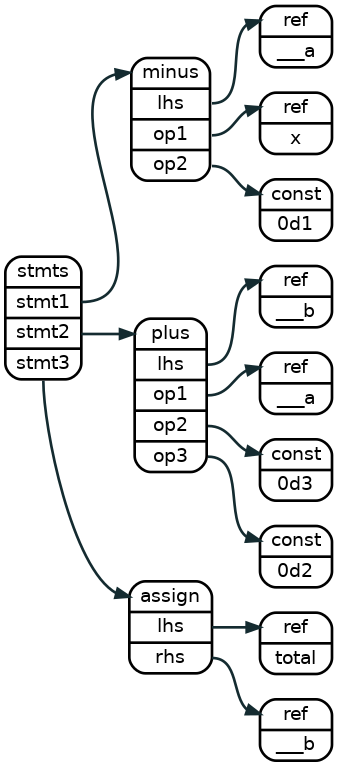
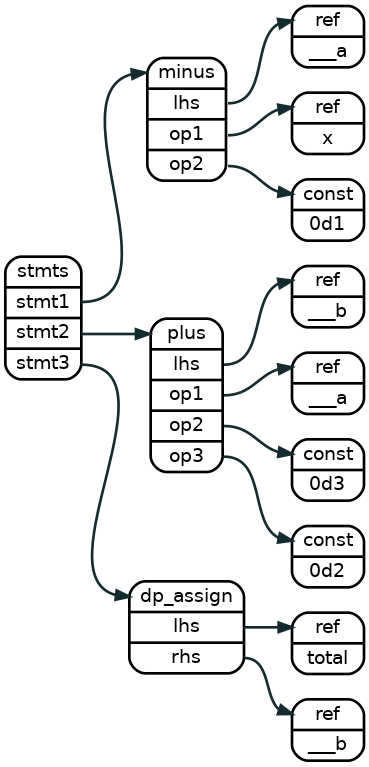
expand the assign section to cover 3 assign types

diff --git a/index.html b/index.html
@@ -366,12 +366,24 @@ foo = $a
 <span class="hljs-keyword">auto</span> node_reg = Lnast_node::create_ref(<span class="hljs-string">"#reg_foo"</span>, line_num, pos1, pos2);
 </code></pre>
 <h1 id="assign-statement">Assign Statement</h1>
+<p>LNAST has 3 types of assignments. &quot;=&quot;, &quot;as&quot;, and &quot;:=&quot;.</p>
+<ul>
+<li>The &quot;lhs = rhs&quot; assignment (assign), copies the rhs value to the lhs and makes sure
+that there is no bit drop. The lhs has to have equal or more bits than the
+rhs.</li>
+<li>The &quot;lhs as rhs&quot; assignment (as) is the same as the &quot;=&quot; assignment but it fixes
+the value. The lhs variable becomes a &quot;C++ const&quot; after the assignment. The
+value assigned can not change again.</li>
+<li>the &quot;lhs := rhs&quot; assignment (dp_assign) is like the &quot;=&quot; assignment but there is no check
+for overflow. If the rhs has more bits than the lhs, the upper bits will be
+dropped.</li>
+</ul>
 <h2 id="assign-trivial-constant">Assign Trivial Constant</h2>
 <pre class="highlight"><code>// Pyrope
 val = 1023u10bits
 </code></pre>
 <pre class="highlight tab tab-verilog"><code><span class="hljs-comment">// Verilog</span>
-<span class="hljs-keyword">assign</span> val = <span class="hljs-number">10</span><span class="hljs-meta">`d1023</span>
+<span class="hljs-keyword">assign</span> val = <span class="hljs-number">10</span><span class="hljs-meta">`d1023 // val has 10 bits</span>
 </code></pre>
 <pre class="highlight tab tab-shell"><code>// CFG
 1       0       0       SEQ0
@@ -393,7 +405,7 @@ An assign node sets the right hand side value to the reference pointed by the le
 of the expression. The left hand side is always a reference. The right hand side is a reference or a constant.</p>
 <h2 id="assign-simple-expression">Assign Simple Expression</h2>
 <pre class="highlight"><code>// Pyrope
-total = (x - 1) + 3 + 2
+total := (x - 1) + 3 + 2
 </code></pre>
 <pre class="highlight tab tab-verilog"><code><span class="hljs-comment">// Verilog</span>
 <span class="hljs-keyword">assign</span> total = (x - <span class="hljs-number">1</span>) + <span class="hljs-number">3</span> + <span class="hljs-number">2</span>
@@ -411,21 +423,21 @@ total = (x - 1) + 3 + 2
 <span class="hljs-comment">// Note: as mentioned in the introduction, if you have the HDL-AST in hand, using</span>
 <span class="hljs-comment">// Token directly instead of explicit string, line_num, pos ... etc.</span>
 
-<span class="hljs-keyword">auto</span> node_stmts  = Lnast_node::create_stmts  (<span class="hljs-string">"foo"</span>,  line_num, pos1, pos2); 
-node node_minus  = Lnast_node::create_minus  (<span class="hljs-string">"foo"</span>,  line_num, pos1, pos2);
-node node_lhs1   = Lnast_node::create_ref    (<span class="hljs-string">"___a"</span>, line_num, pos1, pos2);
-node node_op1    = Lnast_node::create_ref    (<span class="hljs-string">"x"</span>,    line_num, pos1, pos2);
-node node_op2    = Lnast_node::create_const  (<span class="hljs-string">"0d1"</span>,  line_num, pos1, pos2);
+<span class="hljs-keyword">auto</span> node_stmts  = Lnast_node::create_stmts     (<span class="hljs-string">"foo"</span>,  line_num, pos1, pos2); 
+node node_minus  = Lnast_node::create_minus     (<span class="hljs-string">"foo"</span>,  line_num, pos1, pos2);
+node node_lhs1   = Lnast_node::create_ref       (<span class="hljs-string">"___a"</span>, line_num, pos1, pos2);
+node node_op1    = Lnast_node::create_ref       (<span class="hljs-string">"x"</span>,    line_num, pos1, pos2);
+node node_op2    = Lnast_node::create_const     (<span class="hljs-string">"0d1"</span>,  line_num, pos1, pos2);
 
-node node_plus   = Lnast_node::create_plis   (<span class="hljs-string">"bar"</span>,  line_num, pos1, pos2);
-node node_lhs2   = Lnast_node::create_ref    (<span class="hljs-string">"___b"</span>, line_num, pos1, pos2);
-node node_op3    = Lnast_node::create_ref    (<span class="hljs-string">"___a"</span>, line_num, pos1, pos2);
-node node_op4    = Lnast_node::create_const  (<span class="hljs-string">"0d3"</span>,  line_num, pos1, pos2);
-node node_op5    = Lnast_node::create_const  (<span class="hljs-string">"0d2"</span>,  line_num, pos1, pos2);
+node node_plus   = Lnast_node::create_plus      (<span class="hljs-string">"bar"</span>,  line_num, pos1, pos2);
+node node_lhs2   = Lnast_node::create_ref       (<span class="hljs-string">"___b"</span>, line_num, pos1, pos2);
+node node_op3    = Lnast_node::create_ref       (<span class="hljs-string">"___a"</span>, line_num, pos1, pos2);
+node node_op4    = Lnast_node::create_const     (<span class="hljs-string">"0d3"</span>,  line_num, pos1, pos2);
+node node_op5    = Lnast_node::create_const     (<span class="hljs-string">"0d2"</span>,  line_num, pos1, pos2);
 
-<span class="hljs-keyword">auto</span> node_assign = Lnast_node::create_assign (<span class="hljs-string">"foo2"</span>,  line_num, pos1, pos2); 
-<span class="hljs-keyword">auto</span> node_lhs3   = Lnast_node::create_ref    (<span class="hljs-string">"total"</span>, line_num, pos1, pos2);
-<span class="hljs-keyword">auto</span> node_op6    = Lnast_node::create_ref    (<span class="hljs-string">"___b"</span>,  line_num, pos1, pos2);
+<span class="hljs-keyword">auto</span> node_dpa    = Lnast_node::create_dp_assign (<span class="hljs-string">"foo2"</span>,  line_num, pos1, pos2); 
+<span class="hljs-keyword">auto</span> node_lhs3   = Lnast_node::create_ref       (<span class="hljs-string">"total"</span>, line_num, pos1, pos2);
+<span class="hljs-keyword">auto</span> node_op6    = Lnast_node::create_ref       (<span class="hljs-string">"___b"</span>,  line_num, pos1, pos2);
 
 <span class="hljs-comment">// construct the LNAST tree </span>
 <span class="hljs-keyword">auto</span> idx_stmts   = lnast-&gt;add_child(idx_root,  node_stmts);
@@ -440,7 +452,7 @@ node node_op5    = Lnast_node::create_const  (<span class="hljs-string">"0d2"</s
 <span class="hljs-keyword">auto</span> idx_op4     = lnast-&gt;add_child(idx_plus,  node_op4);        
 <span class="hljs-keyword">auto</span> idx_op5     = lnast-&gt;add_child(idx_plus,  node_op5);        
 
-<span class="hljs-keyword">auto</span> idx_assign  = lnast-&gt;add_child(idx_stmts,  node_assign);
+<span class="hljs-keyword">auto</span> idx_assign  = lnast-&gt;add_child(idx_stmts,  node_dpa);
 <span class="hljs-keyword">auto</span> idx_lhs3    = lnast-&gt;add_child(idx_assign, node_lhs3);
 <span class="hljs-keyword">auto</span> idx_op6     = lnast-&gt;add_child(idx_assign, node_op6);        
 </code></pre>

diff --git a/source/includes/_ntype.md b/source/includes/_ntype.md
@@ -94,6 +94,20 @@ auto node_reg = Lnast_node::create_ref("#reg_foo", line_num, pos1, pos2);
 
 
 # Assign Statement
+
+LNAST has 3 types of assignments. "=", "as", and ":=". 
+
+* The "lhs = rhs" assignment (assign), copies the rhs value to the lhs and makes sure
+  that there is no bit drop. The lhs has to have equal or more bits than the
+rhs.
+* The "lhs as rhs" assignment (as) is the same as the "=" assignment but it fixes
+  the value. The lhs variable becomes a "C++ const" after the assignment. The
+value assigned can not change again.
+* the "lhs := rhs" assignment (dp_assign) is like the "=" assignment but there is no check
+  for overflow. If the rhs has more bits than the lhs, the upper bits will be
+dropped.
+
+
 ## Assign Trivial Constant
 ```coffescript
 // Pyrope
@@ -102,7 +116,7 @@ val = 1023u10bits
 
 ```verilog
 // Verilog
-assign val = 10`d1023
+assign val = 10`d1023 // val has 10 bits
 ```
 
 ```shell
@@ -131,7 +145,7 @@ of the expression. The left hand side is always a reference. The right hand side
 ## Assign Simple Expression
 ```coffescript
 // Pyrope
-total = (x - 1) + 3 + 2
+total := (x - 1) + 3 + 2
 ```
 
 ```verilog
@@ -155,21 +169,21 @@ assign total = (x - 1) + 3 + 2
 // Note: as mentioned in the introduction, if you have the HDL-AST in hand, using
 // Token directly instead of explicit string, line_num, pos ... etc.
 
-auto node_stmts  = Lnast_node::create_stmts  ("foo",  line_num, pos1, pos2); 
-node node_minus  = Lnast_node::create_minus  ("foo",  line_num, pos1, pos2);
-node node_lhs1   = Lnast_node::create_ref    ("___a", line_num, pos1, pos2);
-node node_op1    = Lnast_node::create_ref    ("x",    line_num, pos1, pos2);
-node node_op2    = Lnast_node::create_const  ("0d1",  line_num, pos1, pos2);
+auto node_stmts  = Lnast_node::create_stmts     ("foo",  line_num, pos1, pos2); 
+node node_minus  = Lnast_node::create_minus     ("foo",  line_num, pos1, pos2);
+node node_lhs1   = Lnast_node::create_ref       ("___a", line_num, pos1, pos2);
+node node_op1    = Lnast_node::create_ref       ("x",    line_num, pos1, pos2);
+node node_op2    = Lnast_node::create_const     ("0d1",  line_num, pos1, pos2);
 
-node node_plus   = Lnast_node::create_plis   ("bar",  line_num, pos1, pos2);
-node node_lhs2   = Lnast_node::create_ref    ("___b", line_num, pos1, pos2);
-node node_op3    = Lnast_node::create_ref    ("___a", line_num, pos1, pos2);
-node node_op4    = Lnast_node::create_const  ("0d3",  line_num, pos1, pos2);
-node node_op5    = Lnast_node::create_const  ("0d2",  line_num, pos1, pos2);
+node node_plus   = Lnast_node::create_plus      ("bar",  line_num, pos1, pos2);
+node node_lhs2   = Lnast_node::create_ref       ("___b", line_num, pos1, pos2);
+node node_op3    = Lnast_node::create_ref       ("___a", line_num, pos1, pos2);
+node node_op4    = Lnast_node::create_const     ("0d3",  line_num, pos1, pos2);
+node node_op5    = Lnast_node::create_const     ("0d2",  line_num, pos1, pos2);
 
-auto node_assign = Lnast_node::create_assign ("foo2",  line_num, pos1, pos2); 
-auto node_lhs3   = Lnast_node::create_ref    ("total", line_num, pos1, pos2);
-auto node_op6    = Lnast_node::create_ref    ("___b",  line_num, pos1, pos2);
+auto node_dpa    = Lnast_node::create_dp_assign ("foo2",  line_num, pos1, pos2); 
+auto node_lhs3   = Lnast_node::create_ref       ("total", line_num, pos1, pos2);
+auto node_op6    = Lnast_node::create_ref       ("___b",  line_num, pos1, pos2);
 
 // construct the LNAST tree 
 auto idx_stmts   = lnast->add_child(idx_root,  node_stmts);
@@ -184,7 +198,7 @@ auto idx_op3     = lnast->add_child(idx_plus,  node_op3);
 auto idx_op4     = lnast->add_child(idx_plus,  node_op4);        
 auto idx_op5     = lnast->add_child(idx_plus,  node_op5);        
 
-auto idx_assign  = lnast->add_child(idx_stmts,  node_assign);
+auto idx_assign  = lnast->add_child(idx_stmts,  node_dpa);
 auto idx_lhs3    = lnast->add_child(idx_assign, node_lhs3);
 auto idx_op6     = lnast->add_child(idx_assign, node_op6);        
 ```
